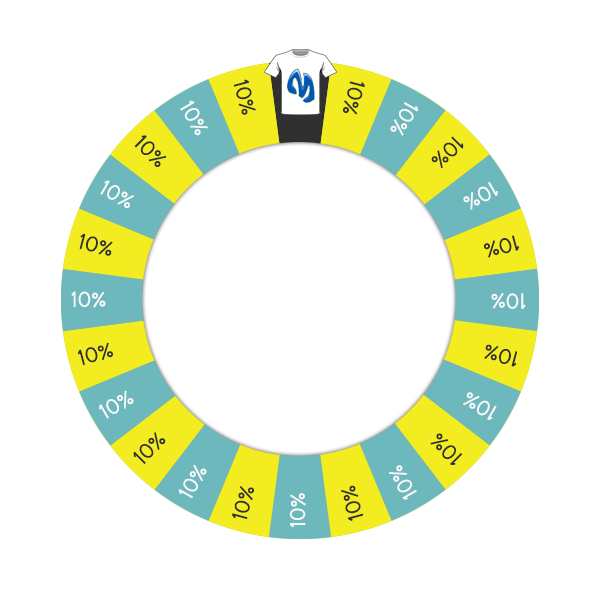
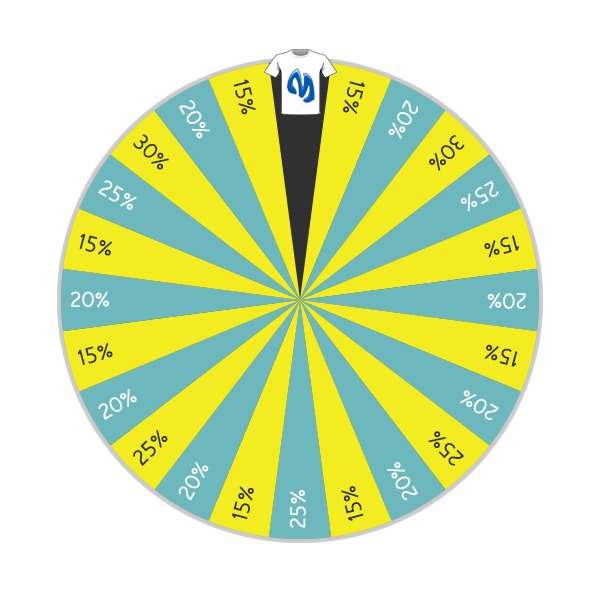
Restyle with new assets

diff --git a/app/assets/stylesheets/base.scss b/app/assets/stylesheets/base.scss
@@ -1,0 +1,43 @@
+body {
+  margin: 0px;
+  padding: 0px;
+  background: image-url('bg_pattern.png');
+}
+
+svg {
+  position: absolute;
+  top: -40px !important;
+  left: -40px !important;
+}
+
+#wrapper {
+  position: relative;
+
+  width: 800px;
+  height: 600px;
+
+  margin: 0px auto;
+
+  outline: 1px dotted red;
+
+  #wheel_center{
+    position: absolute;
+    top: 260px;
+    left: 260px;
+
+    z-index: 10;
+
+    margin-top: -49px;
+    margin-left: -49px;
+  }
+
+  #win_sector {
+    position: absolute;
+    top: 260px;
+    left: 490px;
+
+    z-index: 10;
+
+    margin-top: -23px;
+  }
+}
